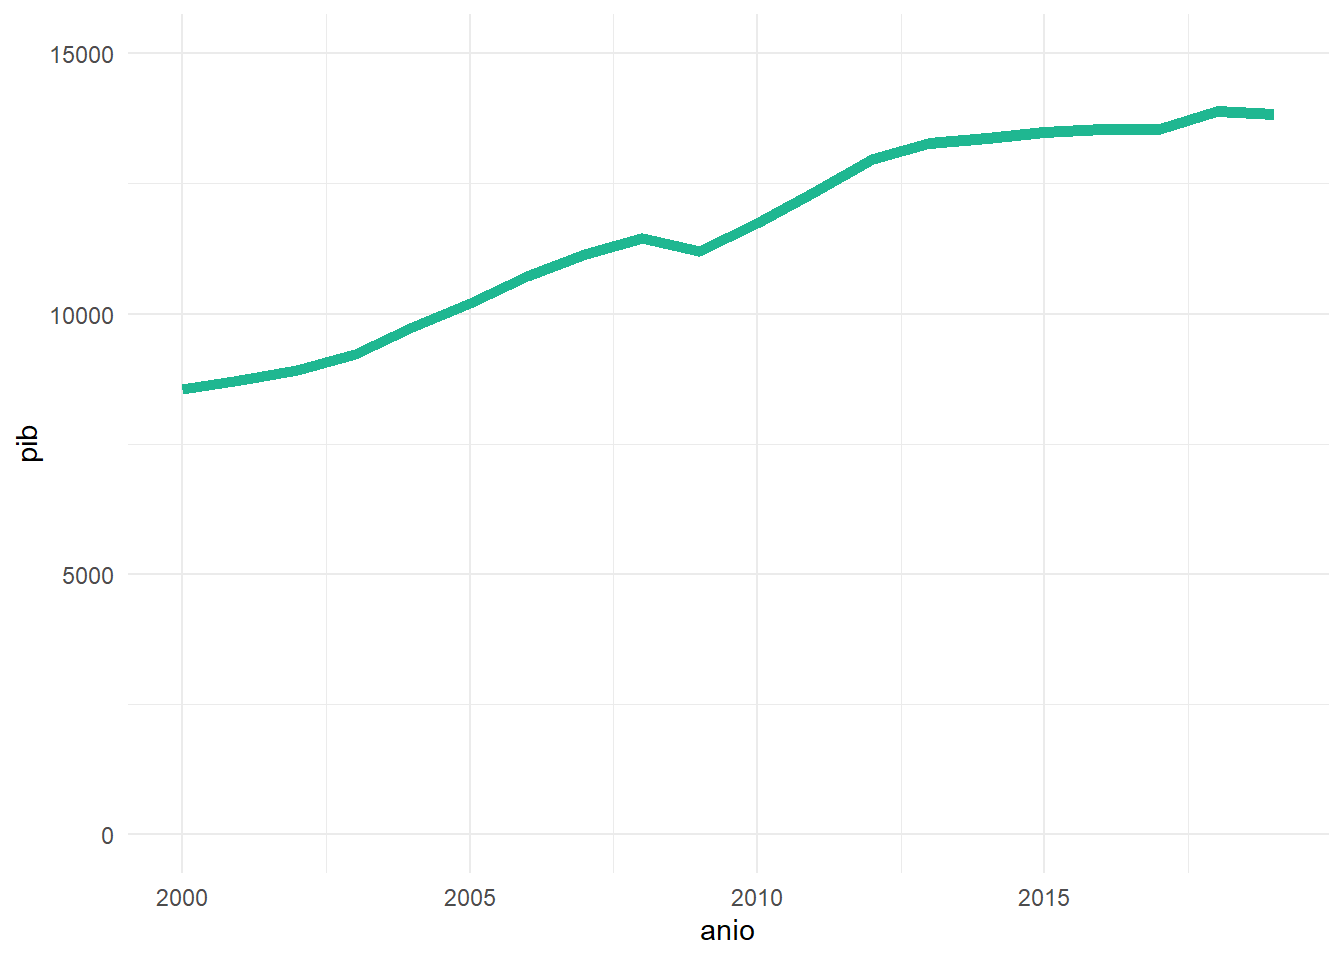
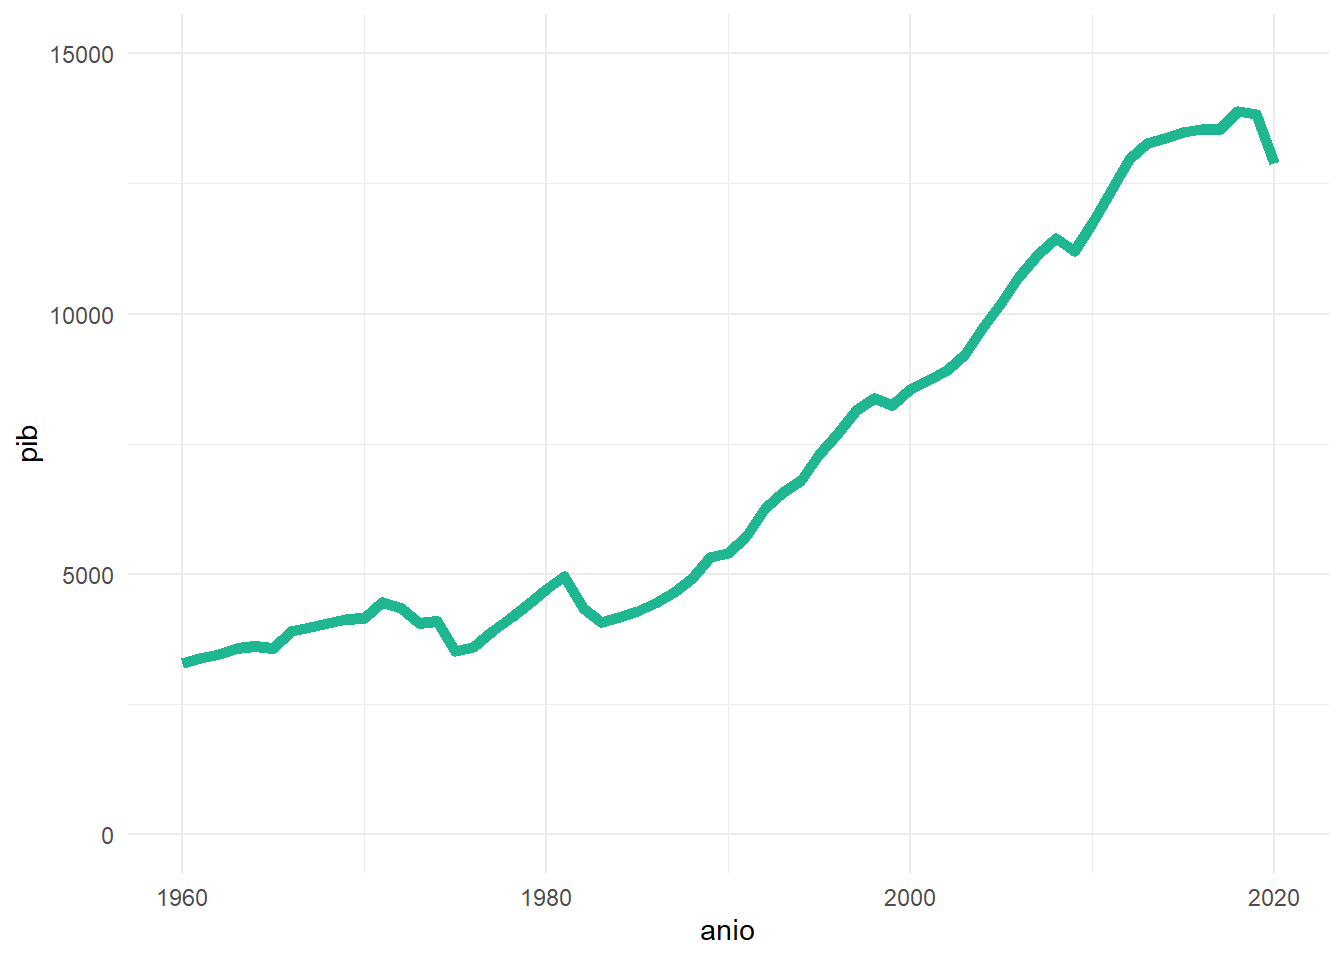
Actualizacion de archivo csv

diff --git a/Productos/primer-documento.html b/Productos/primer-documento.html
@@ -134,9 +134,9 @@ code span.wa { color: #60a0b0; font-weight: bold; font-style: italic; } /* Warni
 <span id="cb1-2"><a href="#cb1-2" aria-hidden="true" tabindex="-1"></a><span class="fu">library</span>(dplyr)</span>
 <span id="cb1-3"><a href="#cb1-3" aria-hidden="true" tabindex="-1"></a><span class="fu">library</span>(ggplot2)</span>
 <span id="cb1-4"><a href="#cb1-4" aria-hidden="true" tabindex="-1"></a></span>
-<span id="cb1-5"><a href="#cb1-5" aria-hidden="true" tabindex="-1"></a>desarrollo <span class="ot">&lt;-</span> <span class="fu">read_csv</span>(<span class="st">"https://raw.githubusercontent.com/rivaquiroga/datos-de-ejemplo/main/cl_2000-2019.csv?token=GHSAT0AAAAAABUIJ2H5F6HUVPMMBPE7A65YYZDONZA"</span>)</span></code><button title="Copy to Clipboard" class="code-copy-button"><i class="bi"></i></button></pre></div>
+<span id="cb1-5"><a href="#cb1-5" aria-hidden="true" tabindex="-1"></a>desarrollo <span class="ot">&lt;-</span> <span class="fu">read_csv</span>(<span class="st">"https://raw.githubusercontent.com/rivaquiroga/datos-de-ejemplo/main/cl_1960-2020.csv"</span>)</span></code><button title="Copy to Clipboard" class="code-copy-button"><i class="bi"></i></button></pre></div>
 </div>
-<p>Estos datos son sobre Chile para las variables poblacion, PIB per capita y esperanza de vida entre años 2000 y 2019</p>
+<p>Estos datos son sobre Chile para las variables poblacion, PIB per capita y esperanza de vida entre años 1960 y 2020</p>
 <div class="cell">
 <div class="sourceCode cell-code" id="cb2"><pre class="sourceCode r code-with-copy"><code class="sourceCode r"><span id="cb2-1"><a href="#cb2-1" aria-hidden="true" tabindex="-1"></a><span class="fu">ggplot</span>(desarrollo, <span class="fu">aes</span>(<span class="at">x=</span>anio,<span class="at">y=</span>pib)) <span class="sc">+</span> <span class="fu">geom_line</span>(<span class="at">size =</span> <span class="dv">2</span> , <span class="at">color =</span> <span class="st">"#1fb791"</span>) <span class="sc">+</span></span>
 <span id="cb2-2"><a href="#cb2-2" aria-hidden="true" tabindex="-1"></a>  <span class="fu">scale_y_continuous</span>(<span class="at">limits =</span> <span class="fu">c</span>(<span class="dv">0</span>,<span class="dv">15000</span>)) <span class="sc">+</span> <span class="fu">theme_minimal</span>()</span></code><button title="Copy to Clipboard" class="code-copy-button"><i class="bi"></i></button></pre></div>
@@ -147,7 +147,7 @@ code span.wa { color: #60a0b0; font-weight: bold; font-style: italic; } /* Warni
 <p>Los datos del ultimo año son los siguientes:</p>
 <div class="cell">
 <div class="sourceCode cell-code" id="cb3"><pre class="sourceCode r code-with-copy"><code class="sourceCode r"><span id="cb3-1"><a href="#cb3-1" aria-hidden="true" tabindex="-1"></a>desarrollo <span class="sc">%&gt;%</span> </span>
-<span id="cb3-2"><a href="#cb3-2" aria-hidden="true" tabindex="-1"></a>  <span class="fu">filter</span>(anio<span class="sc">==</span><span class="dv">2019</span>) <span class="sc">%&gt;%</span> </span>
+<span id="cb3-2"><a href="#cb3-2" aria-hidden="true" tabindex="-1"></a>  <span class="fu">filter</span>(anio<span class="sc">==</span><span class="dv">2020</span>) <span class="sc">%&gt;%</span>    </span>
 <span id="cb3-3"><a href="#cb3-3" aria-hidden="true" tabindex="-1"></a>  <span class="fu">select</span>(<span class="st">"Esperanza de vida"</span> <span class="ot">=</span> esperanza_vida,pib,<span class="st">"Población"</span> <span class="ot">=</span> poblacion) <span class="sc">%&gt;%</span> </span>
 <span id="cb3-4"><a href="#cb3-4" aria-hidden="true" tabindex="-1"></a>  knitr<span class="sc">::</span><span class="fu">kable</span>()</span></code><button title="Copy to Clipboard" class="code-copy-button"><i class="bi"></i></button></pre></div>
 <div class="cell-output-display">
@@ -161,9 +161,9 @@ code span.wa { color: #60a0b0; font-weight: bold; font-style: italic; } /* Warni
 </thead>
 <tbody>
 <tr class="odd">
-<td style="text-align: right;">79.1</td>
-<td style="text-align: right;">13829</td>
-<td style="text-align: right;">19100000</td>
+<td style="text-align: right;">80.5</td>
+<td style="text-align: right;">12890</td>
+<td style="text-align: right;">19200000</td>
 </tr>
 </tbody>
 </table>
